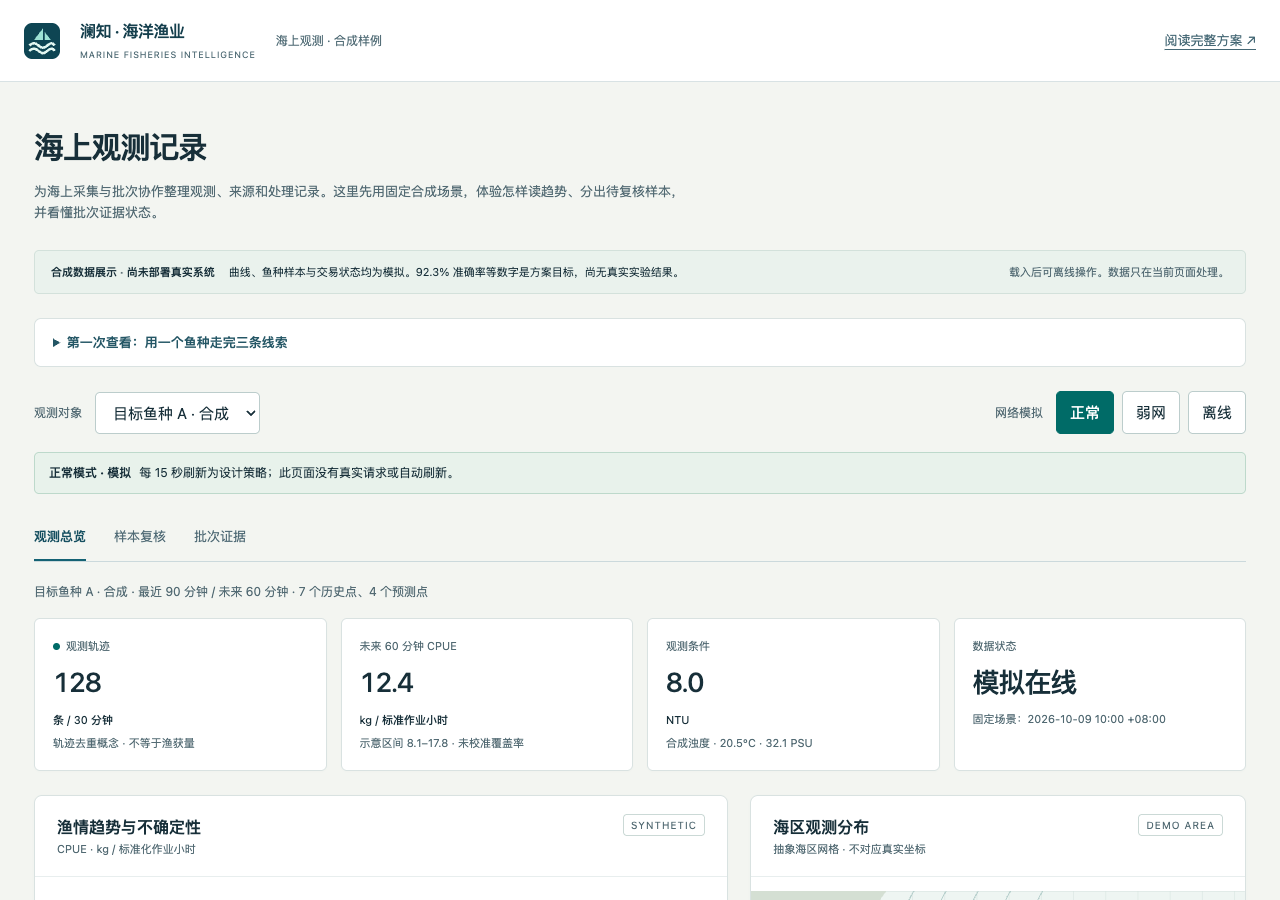
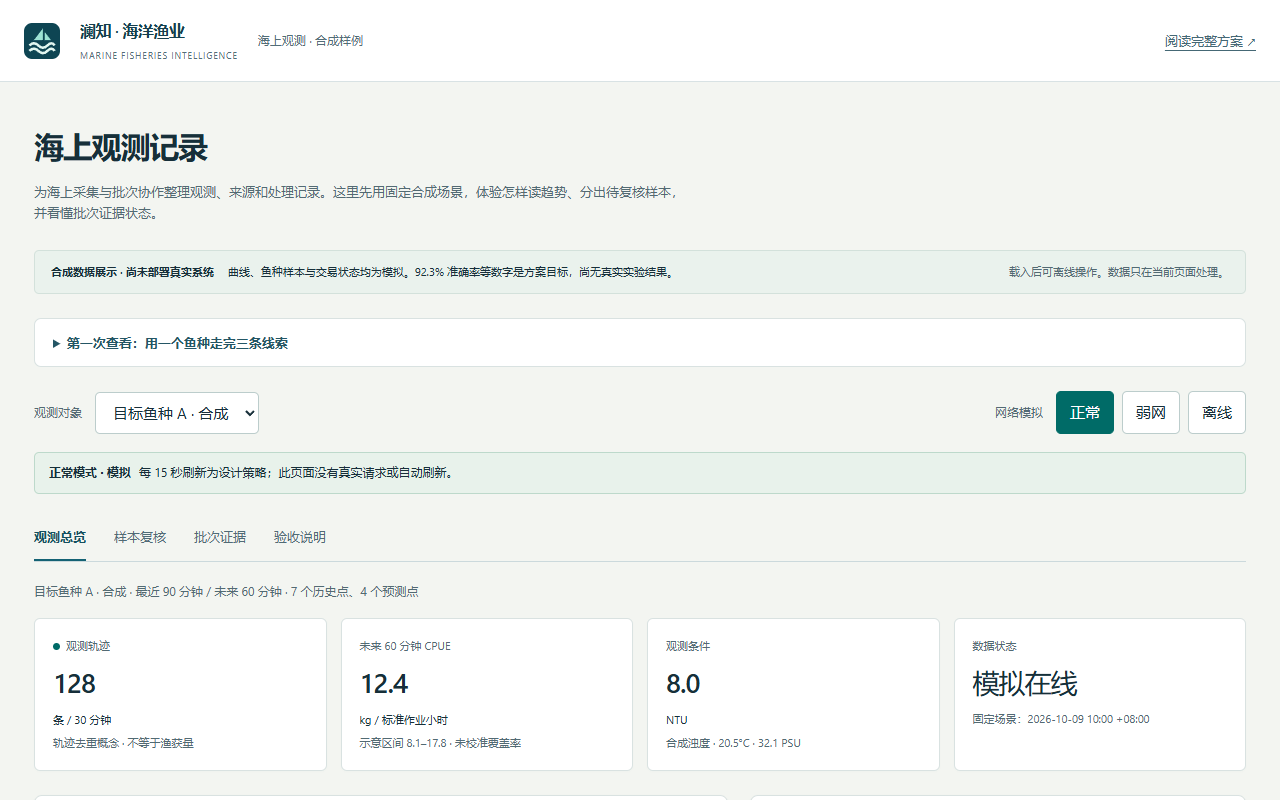
feat(showcase): make sea areas selectable and trend points readable
The area panel always said "selected area A" although no area could be
selected, and the trend chart offered no way to read a point's value.

- Select a sea area by click, Enter or Space. The panel reports that
  area's synthetic observation count and its share of the six areas, and
  follows the chosen species.
- Add a time-point scrubber under the trend. It, a click on the chart
  and the data table describe the same eleven points; forecast points
  show their illustrative interval.
- Draw forecast points and a cursor for the inspected point.

diff --git a/showcase/index.html b/showcase/index.html
@@ -19,6 +19,9 @@
     @media(prefers-reduced-motion:reduce){*{scroll-behavior:auto!important}}
 
 
+.inspect{display:grid;grid-template-columns:auto minmax(120px,1fr);gap:8px 14px;align-items:center;padding:0 22px 18px;font-size:12px;color:var(--muted)}.inspect input{accent-color:var(--teal);width:100%;min-height:32px}.inspect output{grid-column:1/-1;color:var(--ink);font-variant-numeric:tabular-nums;min-height:20px}#trend{cursor:crosshair}
+.map [data-area]{cursor:pointer;transition:stroke 120ms ease}.map [data-area]:hover{stroke:#526a73}.map [data-area][aria-pressed=true]{stroke:#172f39;stroke-width:3}.map [data-area]:focus-visible{outline:3px solid #d98642;outline-offset:2px}.map .area-labels{pointer-events:none}
+@media(max-width:440px){.inspect{padding:0 16px 16px}}
 .start-guide{margin:0 0 24px;padding:0 18px;border:1px solid var(--line);border-radius:7px;background:#fff}.start-guide>summary{padding:13px 0;font-size:13px;font-weight:550;color:#245665;cursor:pointer}.start-guide p{font-size:12px;line-height:1.8;color:#526a73;margin:7px 0 10px}.start-guide .guide-preparation{margin-top:0}.start-guide ol{display:grid;grid-template-columns:repeat(3,minmax(0,1fr));gap:26px;padding-left:20px;margin:12px 0 18px}.start-guide li{min-width:0;font-size:12px}.start-guide a{display:inline-flex;align-items:center;min-height:40px;font-size:12px;color:#245665;text-underline-offset:3px}@media(max-width:850px){.start-guide ol{grid-template-columns:1fr;gap:14px}.start-guide>summary{font-size:12px}.start-guide a{min-height:44px}}
 
   </style>
@@ -41,8 +44,8 @@
     <div class="metric"><div class="label">数据状态</div><div class="value" id="freshness">模拟在线</div><div class="caption" id="freshness-detail">固定场景：2026-10-09 10:00 +08:00</div></div>
   </section>
   <div class="grid">
-    <section class="panel"><div class="panel-head"><div><h2>渔情趋势与不确定性</h2><div class="caption">CPUE · kg / 标准化作业小时</div></div><span class="tag">SYNTHETIC</span></div><div class="chart-wrap"><svg id="trend" viewBox="0 0 680 300" role="img" aria-label="合成 CPUE 历史与未来预测曲线"><title>合成 CPUE 曲线，无真实业务含义</title></svg></div><div class="legend"><span><i class="swatch"></i>合成历史</span><span><i class="swatch pred"></i>合成预测</span><span><i class="swatch band"></i>示意预测区间</span></div><div class="panel-body"><button type="button" id="export-trend">下载当前鱼种 CSV</button><details><summary>查看趋势数据表</summary><div class="table-scroll"><table><caption class="sr-only">曲线对应的合成值</caption><thead><tr><th>相对时间</th><th>CPUE</th><th>类型</th><th>区间下限</th><th>区间上限</th></tr></thead><tbody id="chart-data"></tbody></table></div></details></div></section>
-    <section class="panel"><div class="panel-head"><div><h2>海区观测分布</h2><div class="caption">抽象海区网格 · 不对应真实坐标</div></div><span class="tag">DEMO AREA</span></div><div class="map"><svg viewBox="0 0 460 285" role="img" aria-label="合成海区网格 A 到 F 的观测分布"><title>非真实地理信息，A 海区为选定演示区域</title><defs><pattern id="mapGrid" width="30" height="30" patternUnits="userSpaceOnUse"><path d="M30 0H0V30" fill="none" stroke="#d3e1dd" stroke-width=".7"/></pattern></defs><rect width="460" height="285" fill="url(#mapGrid)"/><path d="M0 0H126Q85 56 134 94T78 174T52 285H0Z" fill="#d4dfd3"/><g fill="none" stroke="#b5cecb"><path d="M165 -20Q101 64 186 112T132 305"/><path d="M195 -20Q131 64 216 112T162 305"/><path d="M225 -20Q161 64 246 112T192 305"/><path d="M255 -20Q191 64 276 112T222 305"/><path d="M285 -20Q221 64 306 112T252 305"/></g><g stroke="white" stroke-width="2"><rect x="220" y="72" width="56" height="48" rx="4" fill="#087f78"/><rect x="281" y="72" width="56" height="48" rx="4" fill="#84bcb0"/><rect x="342" y="72" width="56" height="48" rx="4" fill="#bad9c6"/><rect x="220" y="125" width="56" height="48" rx="4" fill="#a6cdbd"/><rect x="281" y="125" width="56" height="48" rx="4" fill="#4e9d94"/><rect x="342" y="125" width="56" height="48" rx="4" fill="#d1e2d6"/></g><g font-size="13" text-anchor="middle" font-family="sans-serif"><text x="248" y="102" fill="white">A</text><text x="309" y="102" fill="#173f3b">B</text><text x="370" y="102" fill="#173f3b">C</text><text x="248" y="155" fill="#173f3b">D</text><text x="309" y="155" fill="#173f3b">E</text><text x="370" y="155" fill="#173f3b">F</text></g><text x="34" y="60" font-size="12" fill="#526a63">抽象陆地</text><text x="220" y="220" font-size="11" fill="#3f6661">深色表示较高的合成观测强度</text><text id="map-values" x="220" y="240" font-size="10" fill="#526a73">A 128 · B 82 · C 46 · D 61 · E 104 · F 32</text></svg></div><div class="map-detail"><span>选定区域 <strong>A</strong> · 仅作结构示意</span><span>生产环境按权限降低地理精度</span></div></section>
+    <section class="panel"><div class="panel-head"><div><h2>渔情趋势与不确定性</h2><div class="caption">CPUE · kg / 标准化作业小时</div></div><span class="tag">SYNTHETIC</span></div><div class="chart-wrap"><svg id="trend" viewBox="0 0 680 300" role="img" aria-label="合成 CPUE 历史与未来预测曲线"><title>合成 CPUE 曲线，无真实业务含义</title></svg></div><div class="legend"><span><i class="swatch"></i>合成历史</span><span><i class="swatch pred"></i>合成预测</span><span><i class="swatch band"></i>示意预测区间</span></div><div class="inspect"><label for="inspect">查看时间点</label><input id="inspect" type="range" min="0" max="10" step="1" value="6"><output id="inspect-readout" for="inspect" role="status"></output></div><div class="panel-body"><button type="button" id="export-trend">下载当前鱼种 CSV</button><details><summary>查看趋势数据表</summary><div class="table-scroll"><table><caption class="sr-only">曲线对应的合成值</caption><thead><tr><th>相对时间</th><th>CPUE</th><th>类型</th><th>区间下限</th><th>区间上限</th></tr></thead><tbody id="chart-data"></tbody></table></div></details></div></section>
+    <section class="panel"><div class="panel-head"><div><h2>海区观测分布</h2><div class="caption">抽象海区网格 · 不对应真实坐标</div></div><span class="tag">DEMO AREA</span></div><div class="map"><svg viewBox="0 0 460 285" role="img" aria-label="合成海区网格 A 到 F 的观测分布"><title>非真实地理信息。点击海区，或聚焦后按回车选择</title><defs><pattern id="mapGrid" width="30" height="30" patternUnits="userSpaceOnUse"><path d="M30 0H0V30" fill="none" stroke="#d3e1dd" stroke-width=".7"/></pattern></defs><rect width="460" height="285" fill="url(#mapGrid)"/><path d="M0 0H126Q85 56 134 94T78 174T52 285H0Z" fill="#d4dfd3"/><g fill="none" stroke="#b5cecb"><path d="M165 -20Q101 64 186 112T132 305"/><path d="M195 -20Q131 64 216 112T162 305"/><path d="M225 -20Q161 64 246 112T192 305"/><path d="M255 -20Q191 64 276 112T222 305"/><path d="M285 -20Q221 64 306 112T252 305"/></g><g stroke="white" stroke-width="2"><rect x="220" y="72" width="56" height="48" rx="4" fill="#087f78" data-area="A" role="button" tabindex="0" aria-pressed="true" aria-label="海区 A"/><rect x="281" y="72" width="56" height="48" rx="4" fill="#84bcb0" data-area="B" role="button" tabindex="0" aria-pressed="false" aria-label="海区 B"/><rect x="342" y="72" width="56" height="48" rx="4" fill="#bad9c6" data-area="C" role="button" tabindex="0" aria-pressed="false" aria-label="海区 C"/><rect x="220" y="125" width="56" height="48" rx="4" fill="#a6cdbd" data-area="D" role="button" tabindex="0" aria-pressed="false" aria-label="海区 D"/><rect x="281" y="125" width="56" height="48" rx="4" fill="#4e9d94" data-area="E" role="button" tabindex="0" aria-pressed="false" aria-label="海区 E"/><rect x="342" y="125" width="56" height="48" rx="4" fill="#d1e2d6" data-area="F" role="button" tabindex="0" aria-pressed="false" aria-label="海区 F"/></g><g font-size="13" text-anchor="middle" font-family="sans-serif" class="area-labels"><text x="248" y="102" fill="white">A</text><text x="309" y="102" fill="#173f3b">B</text><text x="370" y="102" fill="#173f3b">C</text><text x="248" y="155" fill="#173f3b">D</text><text x="309" y="155" fill="#173f3b">E</text><text x="370" y="155" fill="#173f3b">F</text></g><text x="34" y="60" font-size="12" fill="#526a63">抽象陆地</text><text x="220" y="220" font-size="11" fill="#3f6661">深色表示较高的合成观测强度</text><text id="map-values" x="220" y="240" font-size="10" fill="#526a73">A 128 · B 82 · C 46 · D 61 · E 104 · F 32</text></svg></div><div class="map-detail"><span id="area-detail" role="status"></span><span>仅作结构示意 · 生产环境按权限降低地理精度</span></div></section>
   </div>
   </div>
   <div class="two">
@@ -75,6 +78,8 @@
     markup+=`<line x1="${x(6)}" y1="${top}" x2="${x(6)}" y2="${bottom}" stroke="#99aaa6" stroke-dasharray="4 5"/><text x="${x(6)+8}" y="20" fill="#647970" font-size="10">预测起点</text>`;
     markup+=`<path d="${path(item.history,0)}" fill="none" stroke="#087f78" stroke-width="3"/><path d="${path(item.forecast,6)}" fill="none" stroke="#b76529" stroke-width="3" stroke-dasharray="6 5"/>`;
     item.history.forEach((v,i)=>{markup+=`<circle cx="${x(i)}" cy="${y(v)}" r="3.5" fill="#087f78"/>`;});
+    item.forecast.slice(1).forEach((v,i)=>{markup+=`<circle cx="${x(i+7)}" cy="${y(v)}" r="3.5" fill="#b76529"/>`;});
+    markup+=`<line id="trend-cursor" y1="${top}" y2="${bottom}" stroke="#172f39" stroke-opacity=".45" stroke-width="1.5"/><circle id="trend-marker" r="6" fill="none" stroke="#172f39" stroke-width="2"/>`;
     [[0,'−90 min'],[3,'−45 min'],[6,'现在'],[8,'+30 min'],[10,'+60 min']].forEach(([i,label])=>{markup+=`<text x="${x(i)}" y="270" text-anchor="middle" font-size="11" fill="#526a73">${label}</text>`;});
     svg.innerHTML=markup;
     byId('point').innerHTML=`${item.point} <span class="unit">kg / 标准作业小时</span>`;
@@ -83,6 +88,7 @@
     byId('map-values').textContent=['A','B','C','D','E','F'].map((name,i)=>`${name} ${Math.round(item.count*[1,.64,.36,.48,.81,.25][i])}`).join(' · ');
     const rows=item.history.map((v,i)=>[(i-6)*15,v,'合成历史','','']);
     item.forecast.slice(1).forEach((v,i)=>rows.push([(i+1)*15,v,'合成预测',low[i+1].toFixed(1),high[i+1].toFixed(1)]));
+    currentRows=rows;renderInspect();renderArea();
     byId('chart-data').replaceChildren(...rows.map(row=>{
       const tr=document.createElement('tr');
       row.forEach((value,column)=>{
@@ -102,6 +108,34 @@
       setTimeout(()=>URL.revokeObjectURL(url),1000);
     };
   }
+  // The scrubber, a click on the chart and the table all describe the same eleven points.
+  let currentRows=[];
+  function renderInspect(){
+    const index=Number(byId('inspect').value),row=currentRows[index];if(!row)return;
+    const [minute,value,kind,low,high]=row,when=minute===0?'现在':(minute>0?'+':'−')+Math.abs(minute)+' min';
+    byId('inspect-readout').textContent=`${when} · ${kind} · CPUE ${value}`+(low===''?'':` · 示意区间 ${low}–${high}`);
+    const cx=53+(639-53)*index/10,cy=241-value/24*(241-28),cursor=byId('trend-cursor'),marker=byId('trend-marker');
+    if(cursor){cursor.setAttribute('x1',cx);cursor.setAttribute('x2',cx);}
+    if(marker){marker.setAttribute('cx',cx);marker.setAttribute('cy',cy);}
+  }
+  byId('inspect').addEventListener('input',renderInspect);
+  byId('trend').addEventListener('click',event=>{
+    const box=byId('trend').getBoundingClientRect(),position=(event.clientX-box.left)/box.width*680;
+    byId('inspect').value=String(Math.max(0,Math.min(10,Math.round((position-53)/(639-53)*10))));renderInspect();
+  });
+  // Sea areas share the counts shown under the grid; selecting one never moves real data.
+  const areaShare={A:1,B:.64,C:.36,D:.48,E:.81,F:.25};let area='A';
+  function renderArea(){
+    const item=series[Number(byId('species').value)],counts=Object.fromEntries(Object.entries(areaShare).map(([name,share])=>[name,Math.round(item.count*share)]));
+    const total=Object.values(counts).reduce((sum,count)=>sum+count,0);
+    document.querySelectorAll('[data-area]').forEach(cell=>cell.setAttribute('aria-pressed',String(cell.dataset.area===area)));
+    byId('area-detail').textContent=`选定区域 ${area} · 合成观测 ${counts[area]} 条 / 30 分钟 · 占六区合计 ${Math.round(counts[area]/total*100)}%`;
+  }
+  document.querySelectorAll('[data-area]').forEach(cell=>{
+    const choose=()=>{area=cell.dataset.area;renderArea();};
+    cell.addEventListener('click',choose);
+    cell.addEventListener('keydown',event=>{if(event.key==='Enter'||event.key===' '){event.preventDefault();choose();}});
+  });
   byId('species').addEventListener('change',event=>drawChart(Number(event.target.value)));
   let mode='online', traceStep=0;
   const states={online:{label:'正常模式 · 模拟',text:'每 15 秒刷新为设计策略；此页面没有真实请求或自动刷新。',freshness:'模拟在线',detail:'固定场景：2026-10-09 10:00 +08:00'},weak:{label:'弱网模式 · 模拟',text:'设计策略：60 秒刷新、请求合并、缩略图暂停。页面仅演示提示，不实施网络节流。',freshness:'模拟弱网',detail:'保留概要与趋势，生产服务需报告实际数据年龄'},offline:{label:'离线模式 · 模拟',text:'仅显示固定合成快照。预测标为失效；待同步数据保留，恢复后按幂等键补传。',freshness:'快照已失效',detail:'最后快照：2026-10-09 10:00 +08:00 · 不可用于新决策'}};

diff --git a/README.md b/README.md
@@ -18,7 +18,7 @@
 
 公开页面使用合成序列演示正常、弱网和离线状态。可切换鱼种或推进存证步骤，图表随操作更新。
 
-趋势图的表格和 CSV 共用当前鱼种的 11 个时间点。预测行带示意上下限，历史行保留观测值。
+趋势图的表格和 CSV 共用当前鱼种的 11 个时间点。预测行带示意上下限，历史行保留观测值。拖动「查看时间点」或点击曲线，可逐点读出数值与示意区间；点击海区网格（或聚焦后按回车）查看该区的合成观测量与占比。
 
 
 页内“第一次查看”串起观测、样本复核与批次证据。本机工作台另有采集与交付引导；导航保留当前填写内容，不会代替保存、提交、审核或同步。
